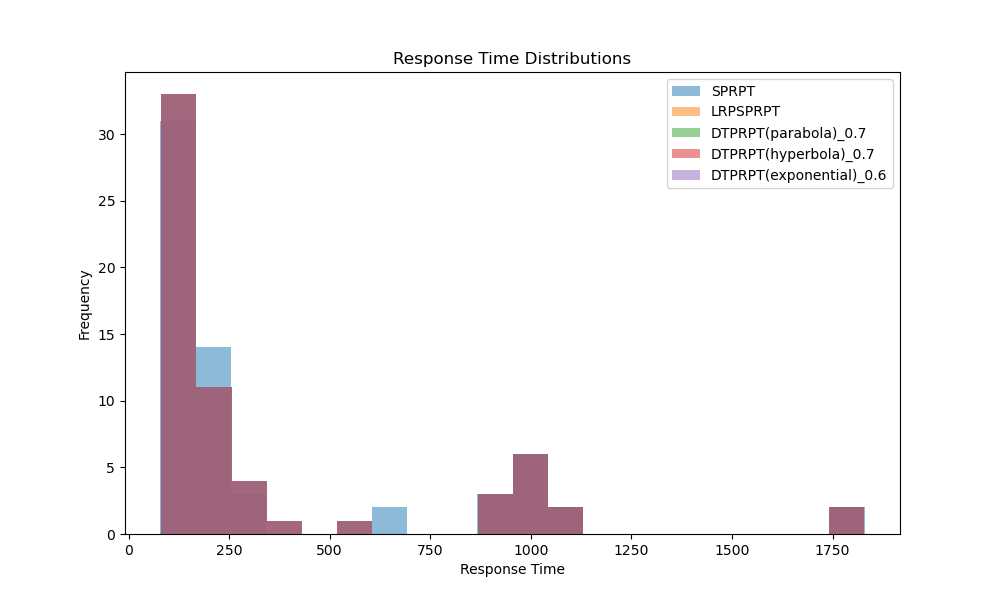
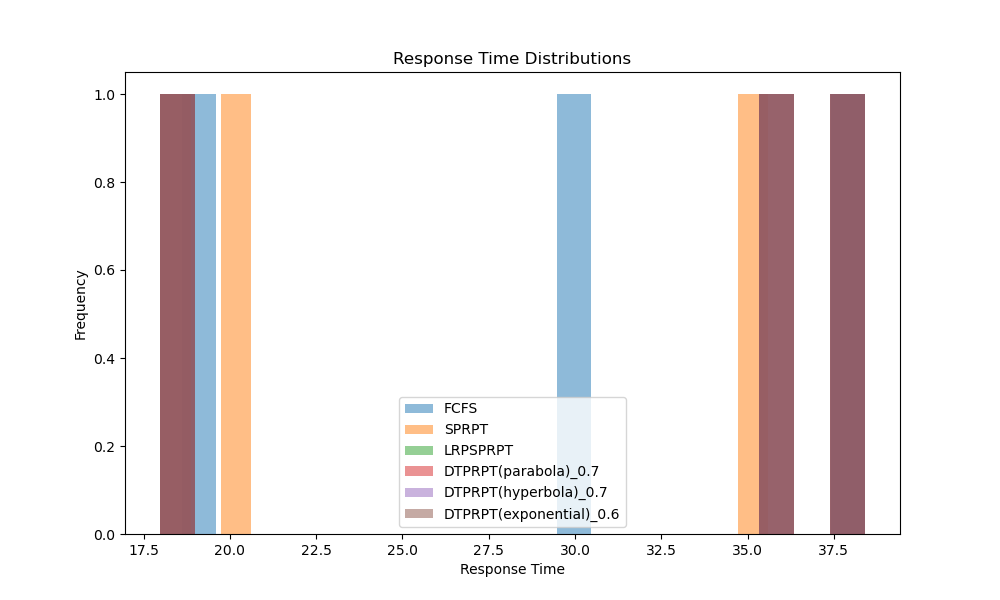
finally some preemptions

diff --git a/llm_scheduling_iclr/vllm/core/run_synthetic.py b/llm_scheduling_iclr/vllm/core/run_synthetic.py
@@ -32,7 +32,7 @@ class SequenceData:
         return self.computed_tokens
     
     def update_computed_tokens(self, tokens: int) -> None:
-        self.computed_tokens = tokens
+        self.computed_tokens += tokens
 
 
 @dataclass
@@ -64,7 +64,7 @@ class SequenceGroup:
 
 # Simulation environment
 class RequestGenerator:
-    def __init__(self, env, scheduler, arrival_rate=1.0, length_distribution=None, seed=None, sigma=10, token_gen_rate=4):
+    def __init__(self, env, scheduler, arrival_rate=1.0, length_distribution=None, seed=None, sigma=0.5, token_gen_rate=4):
         self.env = env
         self.scheduler = scheduler
         self.arrival_rate = arrival_rate
@@ -93,7 +93,7 @@ class RequestGenerator:
 
             dist = self.length_distribution[length_type]
             true_length = self.random.randint(dist[1], dist[2])
-            predicted_length = max(0, int(true_length + self.sigma * self.np_random.standard_normal()))
+            predicted_length = max(0, int(true_length + true_length * self.sigma * self.np_random.standard_normal()))
 
             # Create sequence group and submit to scheduler
             request_id = f"req_{self.request_count}"
@@ -179,7 +179,7 @@ class Scheduler:
             # Update token count
             tokens_to_generate = min(self.token_gen_rate, true_remain_length - current_tokens)
             current_tokens += tokens_to_generate
-            seq_group.update_tokens(current_tokens)
+            seq_group.update_tokens(tokens_to_generate)
 
             # Simulate token generation time
             yield self.env.timeout(1.0)  # Each step takes 1 time unit
@@ -241,7 +241,7 @@ def format_name(policy_class, score_params=None) -> str:
         name += f"_{score_params['hp']}"
     return name
 
-def run_simulation(policy_class, sim_time=1000, arrival_rate=0.5, batch_size=4, length_distribution=None, token_gen_rate=4, score_params=None, seed=None, sigma=10):
+def run_simulation(policy_class, sim_time=1000, arrival_rate=0.5, batch_size=4, length_distribution=None, token_gen_rate=4, score_params=None, seed=None, sigma=0.5):
     """Run a simulation with the given policy and parameters."""
     env = simpy.Environment()
     scheduler = Scheduler(env, policy_class, batch_size, token_gen_rate, score_params)
@@ -479,10 +479,10 @@ if __name__ == "__main__":
     experiment_id = random.randint(100,999)
     # Define simulation parameters
     sim_params = {
-        "sim_time": 50000,         # Total simulation time
-        "arrival_rate": 0.05,      # Mean arrivals per time unit
+        "sim_time": 20000,         # Total simulation time
+        "arrival_rate": 0.8,      # Mean arrivals per time unit
         "batch_size": 1,          # Number of parallel sequences
-        "token_gen_rate": 5,     # Tokens generated per time unit
+        "token_gen_rate": 10,     # Tokens generated per time unit
         "length_distribution": {
             "p1": (0.332, 78, 97),
             "p2": (0.282, 97, 120),
@@ -497,10 +497,10 @@ if __name__ == "__main__":
             "p11": (0.0001, 648, 800)
         },
         "seed": 42,
-        "sigma": 50
+        "sigma": 0.5
     }
     # Policies to compare
-    policies = [FCFS, SPRPT, LRPSPRPT, DTPRPT] 
+    policies = [FCFS, SPRPT, LSPRPT, DTPRPT]  
 
     raw_experiment(policies, sim_params, experiment_id)
 

diff --git a/llm_scheduling_iclr/vllm/core/policy.py b/llm_scheduling_iclr/vllm/core/policy.py
@@ -113,7 +113,9 @@ class SJF(Policy):
         return -seq_group.sampling_params.remain_length[0]
 
 class LSPRPT(Policy):
-
+    """
+    Limited Shorest Preemption Remaining Processing Time
+    """
     def get_priority(
         self,
         now: float,
@@ -159,9 +161,6 @@ class RPSPRPT(Policy):
         return waiting_priority - running_priority
 
 class LRPSPRPT(Policy):
-    """
-    Limited Preemption Shorest Remaining Processing Time
-    """
     def get_priority(
         self,
         now: float,
@@ -226,29 +225,13 @@ class DTPRPT(Policy):
             """
             t_limit = (1 - math.exp(-hp + hp * m0)) / (1 - math.exp(-hp))
 
-        predicted_initial_len = seq_group.sampling_params.remain_length[0]
+        predicted_len = seq_group.sampling_params.remain_length[0]
         generated_len = seq_group.get_seqs()[0].data.get_num_computed_tokens()
-        if generated_len > t_limit*predicted_initial_len:
+        if generated_len > t_limit*predicted_len:
             score = sys.maxsize
         else:
-            if generated_len < len(seq_group.sampling_params.remain_length):
-                predicted_remaining_len = seq_group.sampling_params.remain_length[generated_len]
-            else:
-                predicted_remaining_len = seq_group.sampling_params.remain_length[-1]
-            score = -predicted_remaining_len
+            score = - predicted_len + generated_len
         return score
-
-    def compare(self, waiting_seq: SequenceGroup, running_seq: SequenceGroup, now: float) -> int:
-        """
-        Compare two sequences based on their priority. Returns:
-        > 0 if waiting_seq has higher priority than running_seq,
-        < 0 if running_seq has higher priority than waiting_seq,
-        0 if both have the same priority.
-        """
-        waiting_priority = self.get_priority(now, waiting_seq)
-        running_priority = self.get_priority(now, running_seq)
-
-        return waiting_priority - running_priority
 
 class PolicyFactory:
 
